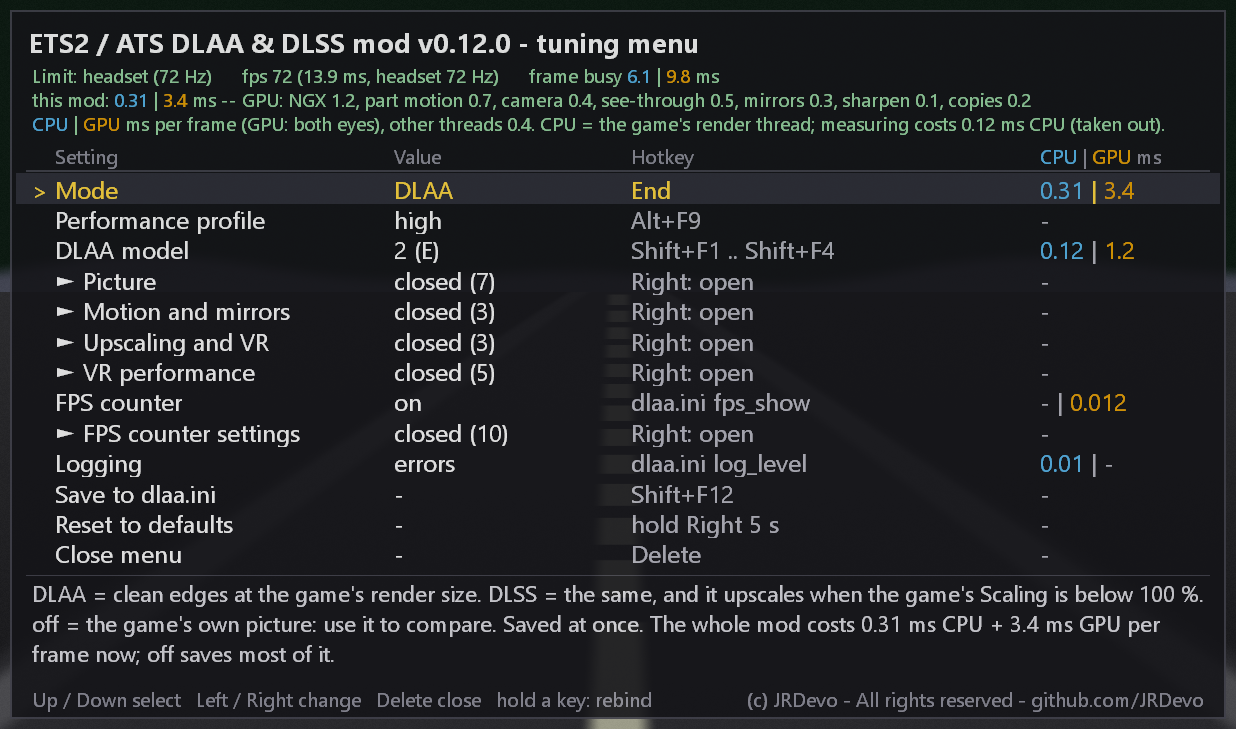
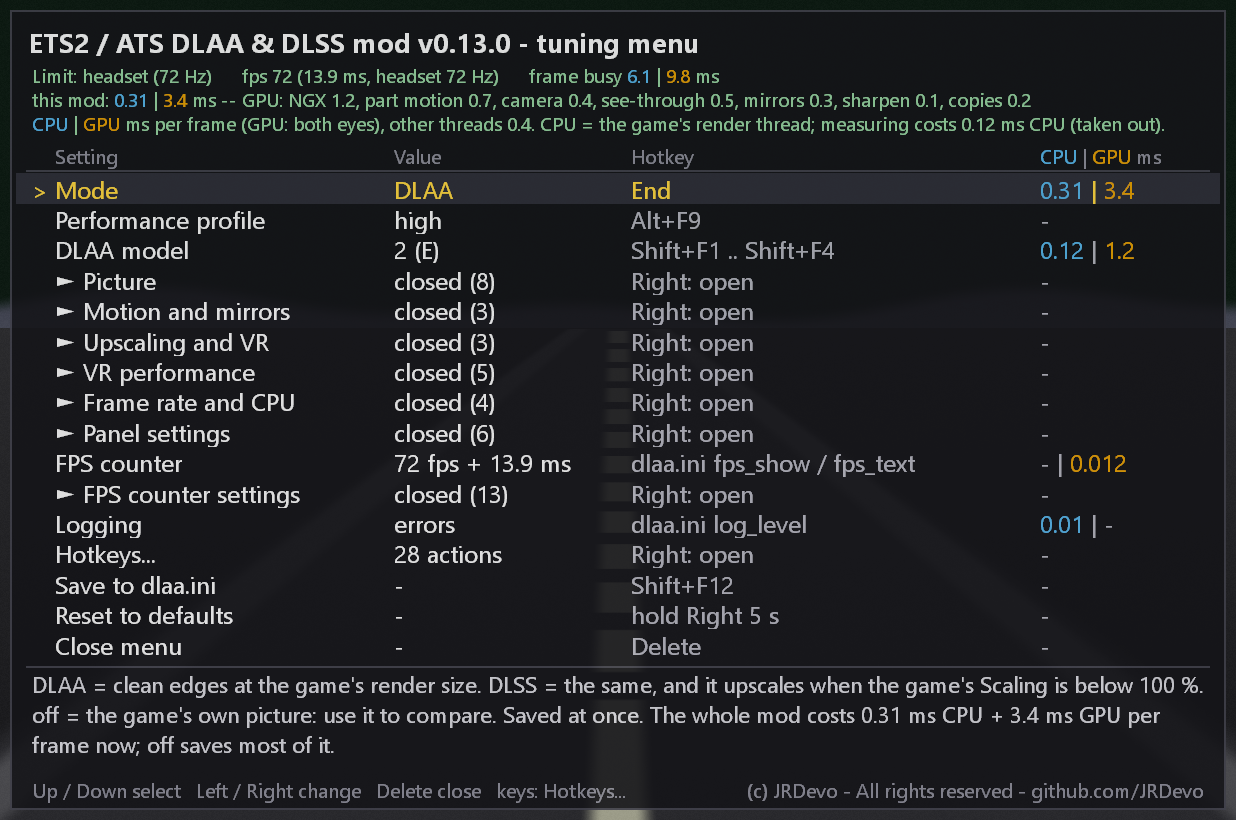
v0.13.0: version, README status + features + troubleshooting, ini sample, menu pictures
Version 0.13.0, README feature list / status / troubleshooting / ini table,
v0.12.1 doc mentions now v0.13.0, menu_shot table matches the new menu
(glow fix, CPU tuning, Frame rate and CPU group, Panel settings), pictures redone.

diff --git a/tests/menu_shot.cpp b/tests/menu_shot.cpp
@@ -3,7 +3,7 @@
 // assets), a hand-filled TuningMenu::Panel, TuningMenu::Draw / DrawWidget, read back, saved with WIC.
 //
 //   menu_shot.exe <output dir>      writes tuning-menu.png, tuning-menu-vr-performance.png, tuning-menu-picture.png,
-//                                   tuning-menu-hotkeys.png (v0.12.1 phase 50), fps-counter.png, fps-counter-colours.png;
+//                                   tuning-menu-hotkeys.png (v0.13.0 phase 50), fps-counter.png, fps-counter-colours.png;
 //                                   exit 0 = all written.
 //
 // THE DATA is ONE table (kRows, below) that mirrors MenuBuildPanel / kMenuDesc / MenuPerfLines in src/inject.cpp (those need the
@@ -40,7 +40,7 @@ struct E {
     const wchar_t* sent;       // the live cost sentence MenuPerfCosts appends
 };
 static const wchar_t* const kGroups[] = { L"Picture", L"Motion and mirrors", L"Upscaling and VR", L"VR performance",
-                                          L"Frame rate", L"Panel settings", L"FPS counter settings" };   // phase 52: + Frame rate
+                                          L"Frame rate and CPU", L"Panel settings", L"FPS counter settings" };   // phase 52: + Frame rate
 enum { G_PIC, G_MOT, G_UP, G_VRP, G_FR, G_PANEL, G_FPSG, G_COUNT };
 static const E kRows[] = {
     { -1, false, L"Mode", L"DLAA", L"End", L"<c>0.31</> | <g>3.4</>", false,
@@ -62,6 +62,7 @@ static const E kRows[] = {
     { G_PIC, false, L"DLAA area (VR)", L"40 %", L"Shift+F5 / Shift+F6", L"<c>0.12</> | <g>1.2</>", false, nullptr, nullptr },
     { G_PIC, false, L"DLAA before tonemap (flat)", L"on", L"Alt+F7  (flat only)", L"-", true, nullptr, nullptr },
     { G_PIC, false, L"See-through depth", L"on", L"Ctrl+F3", L"<c>0.05</> | <g>0.52</>", false, nullptr, nullptr },
+    { G_PIC, false, L"Light glow ghosting fix", L"100 %", L"dlaa.ini dlss_bias_mask", L"", false, nullptr, nullptr },   // phase 49
     { G_MOT, true, L"Motion and mirrors", L"", L"", L"", false, nullptr, nullptr },
     { G_MOT, false, L"Per-part motion vectors", L"on", L"Alt+F5", L"<c>0.18</> | <g>0.70</>", false, nullptr, nullptr },
     { G_MOT, false, L"Mirror DLAA", L"2 mirrors (largest)", L"Alt+F6", L"<c>0.08</> | <g>0.34</>", false, nullptr, nullptr },
@@ -81,10 +82,18 @@ static const E kRows[] = {
     { G_VRP, false, L"Foveated size", L"80 % (balanced)", L"dlaa.ini vrs_inner / vrs_outer", L"<c>0.04</> | -", false, nullptr, nullptr },
     { G_VRP, false, L"Foveated passes", L"scene", L"dlaa.ini vrs_passes", L"<c>0.04</> | -", false, nullptr, nullptr },
     { G_VRP, false, L"Hidden area mask (VR)", L"on", L"dlaa.ini xr_hidden_mask", L"<c>0.02</> | -", false, nullptr, nullptr },
-    { G_FR, true, L"Frame rate", L"", L"", L"", false, nullptr, nullptr },                                       // phase 52
+    { G_FR, true, L"Frame rate and CPU", L"", L"", L"", false, nullptr, nullptr },                                       // phase 52
     { G_FR, false, L"Reflex (flat)", L"off", L"dlaa.ini reflex  (flat only)", L"", true, nullptr, nullptr },
     { G_FR, false, L"FPS cap (flat)", L"off", L"dlaa.ini fps_cap  (flat only)", L"", true, nullptr, nullptr },
     { G_FR, false, L"VR FPS cap", L"off", L"dlaa.ini vr_fps_cap", L"", false, nullptr, nullptr },
+    { G_FR, false, L"CPU tuning", L"off", L"dlaa.ini cpu_pcore / cpu_priority / cpu_no_throttle", L"", false, nullptr, nullptr },   // phase 54
+    { G_PANEL, true, L"Panel settings", L"", L"", L"", false, nullptr, nullptr },
+    { G_PANEL, false, L"Panel position X", L"+0 %", L"dlaa.ini menu_vr_x", L"", false, nullptr, nullptr },
+    { G_PANEL, false, L"Panel position Y", L"+0 %", L"dlaa.ini menu_vr_y", L"", false, nullptr, nullptr },
+    { G_PANEL, false, L"Panel size", L"1.0", L"dlaa.ini menu_vr_scale", L"", false, nullptr, nullptr },
+    { G_PANEL, false, L"Panel VR depth", L"1.00 m", L"dlaa.ini menu_vr_dist", L"", false, nullptr, nullptr },
+    { G_PANEL, false, L"Panel faces you (VR)", L"on", L"dlaa.ini menu_vr_face", L"", false, nullptr, nullptr },
+    { G_PANEL, false, L"Menu keys", L"Delete", L"Up / Down / Left / Right", L"", false, nullptr, nullptr },
     { -1, false, L"FPS counter", L"72 fps + 13.9 ms", L"dlaa.ini fps_show / fps_text", L"- | <g>0.012</>", false, nullptr, nullptr },
     { G_FPSG, true, L"FPS counter settings", L"", L"", L"", false, nullptr, nullptr },
     { G_FPSG, false, L"FPS counter lock", L"Follow head", L"dlaa.ini fps_vr_lock", L"", false, nullptr, nullptr },
@@ -101,7 +110,7 @@ static const E kRows[] = {
     { G_FPSG, false, L"FPS opacity", L"100 %", L"dlaa.ini fps_opacity", L"", false, nullptr, nullptr },   // phase 51f
     { G_FPSG, false, L"FPS distance (VR)", L"0.80 m", L"dlaa.ini fps_vr_dist", L"", false, nullptr, nullptr },
     { -1, false, L"Logging", L"errors", L"dlaa.ini log_level", L"<c>0.01</> | -", false, nullptr, nullptr },
-    { -1, false, L"Hotkeys...", L"28 actions", L"Right: open", L"", false, nullptr, nullptr },   // v0.12.1 phase 50
+    { -1, false, L"Hotkeys...", L"28 actions", L"Right: open", L"", false, nullptr, nullptr },   // v0.13.0 phase 50
     { -1, false, L"Save to dlaa.ini", L"-", L"Shift+F12", L"", false, nullptr, nullptr },
     { -1, false, L"Reset to defaults", L"-", L"hold Right 5 s", L"", false, nullptr, nullptr },
     { -1, false, L"Close menu", L"-", L"Delete", L"", false, nullptr, nullptr },
@@ -114,7 +123,7 @@ static const wchar_t kPerf1[] = L"this mod: <c>0.31</> | <g>3.4</> ms -- GPU: NG
                                 L"mirrors 0.3, sharpen 0.1, copies 0.2";
 static const wchar_t kPerf2[] = L"<c>CPU</> | <g>GPU</> ms per frame (GPU: both eyes), other threads 0.4. CPU = the game's render thread; "
                                 L"measuring costs 0.12 ms CPU (taken out).";
-static const wchar_t kTitle[] = L"ETS2 / ATS DLAA & DLSS mod v0.12.0 - tuning menu";
+static const wchar_t kTitle[] = L"ETS2 / ATS DLAA & DLSS mod v0.13.0 - tuning menu";
 static const wchar_t kFooter[] = L"Up / Down select   Left / Right change   Delete close   keys: Hotkeys...";
 
 // Ink shorthand in the table strings: "<c>0.31</>" = CPU blue, "<g>3.4</>" = GPU orange (menu.h kInkCpu / kInkGpu / kInkEnd).
@@ -335,7 +344,7 @@ static void MenuShot(Gpu& g, const wchar_t* file, const bool open[G_COUNT], cons
     Save(file, px, W, H);
 }
 
-// v0.12.1 phase 50: the Hotkeys page (mirrors MenuBuildHotkeysPanel in src/inject.cpp: "< Back" + one line per action, the
+// v0.13.0 phase 50: the Hotkeys page (mirrors MenuBuildHotkeysPanel in src/inject.cpp: "< Back" + one line per action, the
 // Keyboard / Controller columns), the "Sharpen strength +" line waiting for a press (the wide bind-mode line).
 static void HotkeysShot(Gpu& g, const wchar_t* file) {
     struct L { const wchar_t* name; const wchar_t* kb; const wchar_t* pad; };
@@ -359,7 +368,7 @@ static void HotkeysShot(Gpu& g, const wchar_t* file) {
     const int bindLine = 8;                                        // "Sharpen strength +"
     TuningMenu::Panel p;
     memset(&p, 0, sizeof(p));
-    wcsncpy_s(p.title, L"ETS2 / ATS DLAA & DLSS mod v0.12.1 - hotkeys", _TRUNCATE);
+    wcsncpy_s(p.title, L"ETS2 / ATS DLAA & DLSS mod v0.13.0 - hotkeys", _TRUNCATE);
     Put(p.perf[0], 224, Ink(kPerf0));
     Put(p.perf[1], 224, Ink(kPerf1));
     Put(p.perf[2], 224, Ink(kPerf2));
@@ -467,7 +476,7 @@ int main(int argc, char** argv) {
     MenuShot(g, L"tuning-menu-picture.png", pic, L"Sharpen strength");
     bool all[G_COUNT]; for (bool& o : all) o = true;
     MenuShot(g, L"tuning-menu-all-open.png", all, L"Mode");                       // phase 46b: every group open
-    HotkeysShot(g, L"tuning-menu-hotkeys.png");                                   // v0.12.1 phase 50: the Hotkeys page
+    HotkeysShot(g, L"tuning-menu-hotkeys.png");                                   // v0.13.0 phase 50: the Hotkeys page
     FpsShots(g);
     g.ctx->Release();
     g.dev->Release();

diff --git a/src/inject.cpp b/src/inject.cpp
@@ -1,4 +1,4 @@
-// v0.12.1 -- phase 50: HOTKEYS PAGE (GitHub issue #16; the block "the HOTKEYS PAGE" before the Reset hold, ~17090). Hold-to-bind
+// v0.13.0 -- phase 50: HOTKEYS PAGE (GitHub issue #16; the block "the HOTKEYS PAGE" before the Reset hold, ~17090). Hold-to-bind
 //           is gone: main rows only change values; "Hotkeys..." / "Menu keys" (Right) open a second list in the same panel, one
 //           line per action; Right on a line waits for the NEXT FRESH press of one key / button (inputs held at that moment,
 //           e.g. an engaged H-shifter gear, are ignored until released; a stale controller read is not a release). While the

diff --git a/README.md b/README.md
@@ -74,10 +74,18 @@ an in-game menu (`Delete`) and an optional text config.
 - **VR speed-ups** — hidden area mask (the lens corners are not drawn), foveated rendering also on the lighting pass,
   mirrors in turns; all off by default, each a menu row (new in v0.12.0).
 - **VR fps counter attached to the vehicle** — rides with the cab on bumps, braking and hills; 20 colours, brightness,
-  distance and turn (new in v0.12.0).
+  distance and turn (new in v0.12.0). New in v0.13.0: the box sits on the cab itself and keeps its place after menus and recentring, every vehicle keeps its own box (place, size, colour, brightness, text, opacity), and the text has 7 choices.
 - **Frame rate limits** — in flat, NVIDIA Reflex (less input lag when the GPU is the limit) and an FPS cap (a steady
   frame time, less heat). In VR, a cap at half or a third of the headset rate, so the headset's reprojection (ASW /
-  Motion Smoothing) fills the frames in between at a steady rhythm. All off by default, each a menu row (new).
+  Motion Smoothing) fills the frames in between at a steady rhythm. All off by default, each a menu row (new in v0.13.0).
+- **Night light glow fix** — street lamp and car light glows no longer leave a trail behind them at night; a menu row
+  (`Light glow ghosting fix`, `dlss_bias_mask`) sets the strength (new in v0.13.0).
+- **Lit areas under canopies** — the game's lighting pass draws some meshes a second time (sunlight through a tent
+  canopy); they now match the DLAA picture and no longer flicker on and off (`light_redraw_jitter`, new in v0.13.0).
+- **CPU tuning** — optional: Intel P-cores for the game's main threads, Above normal priority, no power throttling;
+  one menu row, off by default (new in v0.13.0).
+- **Hotkeys page** — bind every menu hotkey in the menu itself with one press; only the five menu keys are kept from the
+  game while the menu is open (new in v0.13.0).
 - **Windows HDR** — works with HDR on in flat mode.
 - **NVIDIA Smooth Motion** — works with the driver's frame generation switched on, in flat mode.
 - **OFXR Bridge (VR frame generation)** — runs together with the bridge, which adds in-between frames to the
@@ -125,11 +133,13 @@ This is an unofficial fan project. It is not affiliated with, or endorsed by, SC
 Software or NVIDIA. Euro Truck Simulator 2 and American Truck Simulator are
 trademarks of SCS Software; DLSS and DLAA are trademarks of NVIDIA Corporation.
 
-> Status: v0.12.0. New: triple screens in flat, the VR fps counter attached to the vehicle, a menu in categories with a CPU | GPU cost column, and three VR speed-ups.
+> Status: v0.13.0. New: NVIDIA Reflex and frame rate caps, a Hotkeys page in the menu, a per-vehicle fps box in VR, a night light glow fix, CPU tuning, and fixes for Linux / Proton.
 > See the [Releases page](https://github.com/JRDevo/ETS2-ATS-DLAA-DLSS-Injection-Mod/releases) for every version.
 > DLSS upscaling in VR is still being tuned; treat it as experimental.
 
 <details><summary>Older versions</summary>
+
+v0.12.0: triple screens in flat, the VR fps counter attached to the vehicle, a menu in categories with a CPU | GPU cost column, hidden area mask, foveated lighting pass and mirrors in turns.
 
 v0.11.0: Turbo mode (VR), foveated rendering (VRS), logging levels in the menu, about half the GPU cost for the per-part motion vectors in busy cities, fixes for issue #8 (OptiScaler: mirror DLAA starts off) and issue #9 (DLSS stopped on the eyes after a VR minimize / restore). v0.10.3: in VR the tuning menu and the fps box are OpenXR quad layers placed by the headset (`menu_vr_layer`): steady, never covered by the game's menus, at a real distance (`menu_vr_dist`), with the fps box optionally fixed in the cab (`fps_vr_lock`). Hold a key or wheel button on a menu row to bind it; Reset to defaults is a 5 s hold; Panel / FPS settings are collapsible groups. v0.10.2 (unpublished): VR performance pass (`mv_cons_fail_tol`, mirror units pre-built on the loading screen, `mv_area_clip`, camera-only mirrors `mirror_mv`), the 7-choice Mirror DLAA row, wheel / D-pad bindings. The DLSS
 *upscaling* path (render below native, reconstruct up) runs in VR but is still
@@ -510,11 +520,11 @@ The three green lines under the title show the game's GPU time per frame, what t
 - **Flat:** the panel sits near the top-left corner of the screen.
 - **VR:** the panel shows in both eyes, centred in front of you, and on the desktop mirror window -- also on the
   VR main menu and the garage / truck dealer screens, before a save is loaded.
-- **You can keep driving with the menu open (v0.12.1):** only the five menu keys / buttons (by default `Delete` and the
+- **You can keep driving with the menu open (v0.13.0):** only the five menu keys / buttons (by default `Delete` and the
   arrow keys) are kept from the game while the menu is open; every other key, wheel and gamepad button, your shifter, the
   steering and the pedals reach the game as usual. (v0.10.2 to v0.12.0 kept every key and button from the game.) Closed,
   the menu keys belong to the game again.
-- **Hotkeys page (v0.12.1):** select **`Hotkeys...`** (near the bottom, above `Save`) and press `Right`: the panel shows
+- **Hotkeys page (v0.13.0):** select **`Hotkeys...`** (near the bottom, above `Save`) and press `Right`: the panel shows
   one line per hotkey action (`Sharpen strength -` and `Sharpen strength +` are separate lines, so are the four models and
   the five menu keys) with its keyboard key and its wheel / gamepad button. `Up` / `Down` select a line, `Left` (or
   `Right` on `< Back`) goes back to the main menu.
@@ -644,7 +654,7 @@ The three green lines under the title show the game's GPU time per frame, what t
   `info` or `debug`, live. Its cost column shows what the logging costs on the CPU per frame (the description adds the
   lines per second; at `debug` also what the CPU profiler costs). `debug` also runs the mod's GPU timers and CPU
   profiler all the time; use it for bug reports, `errors` for play.
-- **Hotkeys...** (v0.12.1) opens the Hotkeys page: every hotkey of the menu with its key and wheel button; bind one by
+- **Hotkeys...** (v0.13.0) opens the Hotkeys page: every hotkey of the menu with its key and wheel button; bind one by
   pressing `Right` on its line and then the new key or button (see above).
 - **Save to dlaa.ini** (the same as `Shift+F12`) writes the live values, and the panel position / fps box once you
   changed them.
@@ -710,6 +720,8 @@ The table below lists the commonly used keys:
 | `tex_aniso` | `0` | anisotropic filtering for the world textures: `0` = the game's own setting; `2`..`16` = at least this level (trilinear textures become anisotropic) |
 | `preview_dlaa` | `1` | `1` = also anti-alias the profile / truck-preview screen (flat and VR); `0` = leave that screen untouched. VR at eye resolution needs a lot of GPU memory and time there, turn it off if that screen stutters. That screen always uses model 2 (preset E); the model keys change the drive only |
 | `jitter_sign_x` / `jitter_sign_y` | `1` | flip if the image shimmers or looks doubled (try the 4 combinations) |
+| `dlss_bias_mask` | `100` | light glow ghosting fix (phase 49): strength in % `0`..`100`, `0` = off. Street lamp and car light glows are told to DLSS as a mask so they leave no trail at night. Lower it (25 % steps) if glows flicker. The menu's `Light glow ghosting fix` row |
+| `light_redraw_jitter` | `1` | phase 55: `1` = the lighting pass's mesh redraws (sunlight through canopies, emissive surfaces) use the same jittered viewport as the G-buffer; `0` = the game's viewport for the whole lighting pass (lit areas can flicker). Startup only |
 | `dlss_hdr` | `1` | HDR only: `1` = tell DLSS the picture is HDR (normal); `0` = try this if HDR brightness or colours look wrong with DLAA on |
 | `beeps` | `1` | `0` = silence the hotkey beeps |
 | `menu_x` / `menu_y` / `menu_scale` | `2` / `8` / `1.0` | tuning menu panel, flat: left / top edge in % of the picture, size `0.3`..`2.0`. The menu's Panel rows change them live |
@@ -743,7 +755,7 @@ The table below lists the commonly used keys:
 | `cpu_no_throttle` | `0` | `1` = Windows may not slow the game down to save power (EcoQoS) and honours its timer requests while the window is minimized or hidden. Needs Windows 11 for the timer part. The menu's `CPU tuning` row switches it live |
 | `did_shadow` | `1` | CPU saving for the per-part motion vectors (read at game start only): `1` = the mod remembers the game's drawing settings as the game sets them instead of asking the graphics driver for them at every draw (input layout, vertex shader, its constant buffers and samplers, rasterizer state); `2` = also the vertex / index buffers (faster only when the game reuses buffers between draws); `0` = ask at every draw (as before). The log's `did_shadow=` line at startup says which one ran |
 | `did_shadow_verify` | `-1` | test only: every Nth draw the remembered settings are compared with the driver's; a difference is logged (`MISMATCH`) and the mod asks the driver for the rest of that frame. `-1` = every 64th draw with `log_level = 4`, off otherwise; `0` = off |
-| `bind_hold_ms` | `5000` | tuning menu: how long (ms, `500`..`10000`) the menu `Right` must be held on the `Reset to defaults` row. (Up to v0.12.0 it was also the hold-to-bind time; v0.12.1 binds on the Hotkeys page with one press, [`docs/KEYS.md`](docs/KEYS.md#bind-a-key-in-the-menu)) |
+| `bind_hold_ms` | `5000` | tuning menu: how long (ms, `500`..`10000`) the menu `Right` must be held on the `Reset to defaults` row. (Up to v0.12.0 it was also the hold-to-bind time; v0.13.0 binds on the Hotkeys page with one press, [`docs/KEYS.md`](docs/KEYS.md#bind-a-key-in-the-menu)) |
 | `controller_name` | *(empty)* | only read the wheels / gamepads whose name contains this text for `WheelN` / `WheelUp` hotkey bindings, e.g. `T300` when a shifter shares the wheel's button numbers; empty = every controller ([`docs/KEYS.md`](docs/KEYS.md#wheel-gamepad-and-joystick-buttons)) |
 | `key_<action>` | *(see KEYS.md)* | re-bind any hotkey, e.g. `key_dlaa_toggle = Ctrl+D`, or `none` to disable it. Full list and format: [`docs/KEYS.md`](docs/KEYS.md) |
 | `log_level` | `1` | how much goes into the log file `dlaa_inject.log`: `0` = off, `1` = errors only (without an error no file is created), `2` = + warnings (problems the mod works around), `3` = + info (start-up and every setting change), `4` = debug: + statistics every few seconds, and the mod's GPU timers and CPU profiler run. Bug reports need `4`. The names work too (`off`, `errors`, `warnings`, `info`, `debug`). The menu's `Logging` row changes it live. The old `debug = 1` still means `4`, but only when there is no `log_level` line |
@@ -888,6 +900,15 @@ Windows 11 Pro, 3840x2160 monitor; VR = Meta Quest 3 over Virtual Desktop (VDXR)
   the mod sees OptiScaler next to the game exe and starts with mirror DLAA off (look for `env: OptiScaler
   detected` in the log). On v0.10.3 set `mirror_dlaa = 0` in `dlaa.ini` or press `Alt+F6`. OptiScaler is not
   supported or tested by this mod; it happens to work for the main picture.
+- **Light trails behind street lamps and car lights at night:** fixed in v0.13.0: update (`dlss_bias_mask`, menu row
+  `Light glow ghosting fix`). Lower it if glows start to flicker.
+- **Lit areas under tent canopies switch off on some frames (flicker):** fixed in v0.13.0: update (`light_redraw_jitter = 1`).
+- **Linux / Proton: the game does not start or the shaders fail with the mod:** fixed in v0.13.0: update (GitHub issues #14 and #15;
+  the mod needs no extra runtime library and carries its shaders prebuilt). See [Linux / Proton](#linux--proton).
+- **Hotkeys could not be re-bound in the menu, or held keys reached the game (hold-to-bind):** fixed in v0.13.0: update
+  (the Hotkeys page, GitHub issue #16).
+- **The VR fps box moved after a menu or a recentre, or sat in the wrong place in a second truck:** fixed in v0.13.0: update
+  (the box is saved on the cab itself, per vehicle).
 - **Faint dark line down the middle of the menu / truck-preview screen:** fixed in v0.8.1: update.
 - **Dark 1 px line on every silhouette (trees, poles, trucks) in flat mode:** fixed in v0.10.1: update. v0.10.0
   drew the game's fog pass one texel off.

diff --git a/docs/KEYS.md b/docs/KEYS.md
@@ -56,7 +56,7 @@ menu and the garage / truck dealer screens, before a save is loaded).
   Delete close   keys: Hotkeys...`), whatever wheel buttons are bound too; it is the same on every row (the Reset hold shows
   its bar in the row itself). With long key names the hint is left out so the line fits.
 
-- **Only the 5 menu keys are kept from the game while the menu is open** (v0.12.1): `Delete`, `Up`, `Down`, `Left`,
+- **Only the 5 menu keys are kept from the game while the menu is open** (v0.13.0): `Delete`, `Up`, `Down`, `Left`,
   `Right` (or whatever they are bound to, with any `Shift` / `Ctrl` / `Alt`, and their wheel buttons) -- the arrow keys
   steer, accelerate and brake in the default ETS2 / ATS layout. Every other key, every other wheel / gamepad button, the
   shifter, steering and pedals reach the game, so **you can keep driving with the menu open**. Only while the
@@ -136,7 +136,7 @@ menu and the garage / truck dealer screens, before a save is loaded).
 
 ## Bind a key in the menu
 
-(v0.12.1; GitHub issue #16) Instead of editing `dlaa.ini`, open the menu, select **`Hotkeys...`** (near the bottom, above
+(v0.13.0; GitHub issue #16) Instead of editing `dlaa.ini`, open the menu, select **`Hotkeys...`** (near the bottom, above
 `Save to dlaa.ini`) and press `Right`. The panel shows the **Hotkeys page**: `< Back` first, then one line per action --
 `Mode`, `Performance profile`, `DLAA model 1` .. `4`, `Sharpen strength -` / `+`, `Sharpen width -` / `+`,
 `Texture sharpness -` / `+`, `Cut-out sharpness -` / `+`, `DLAA area (VR) -` / `+`, `Per-part motion vectors`,
